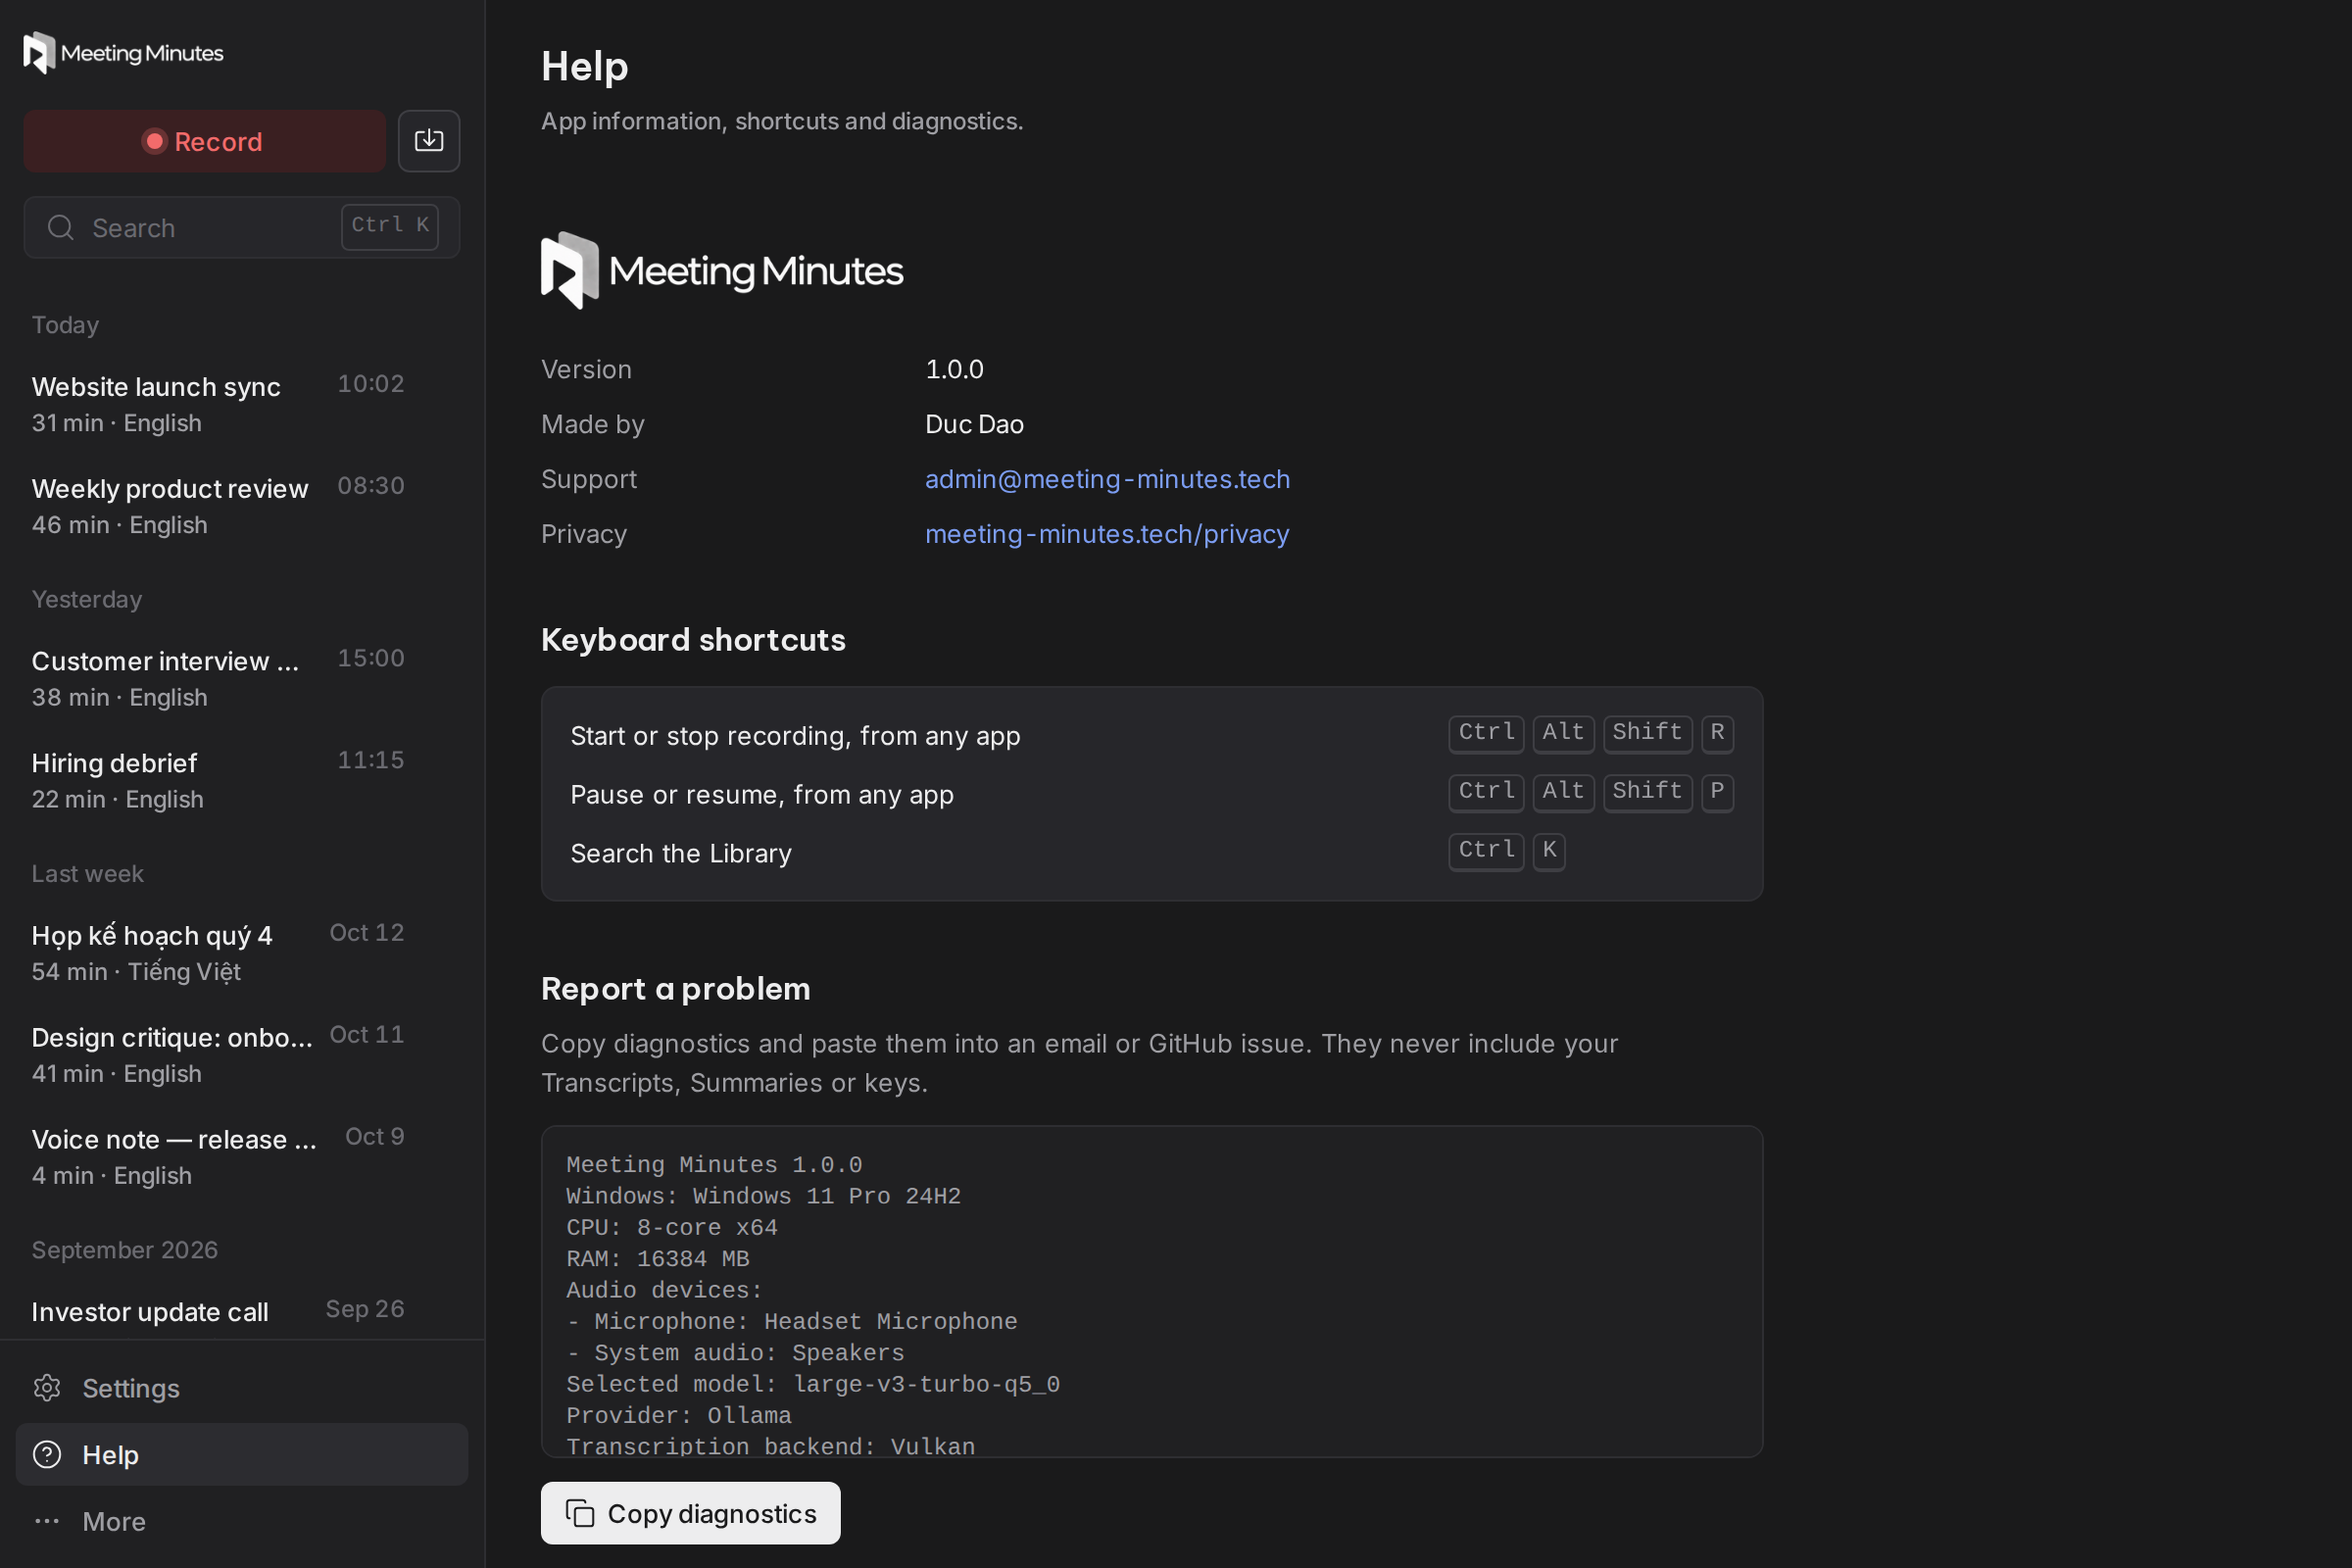
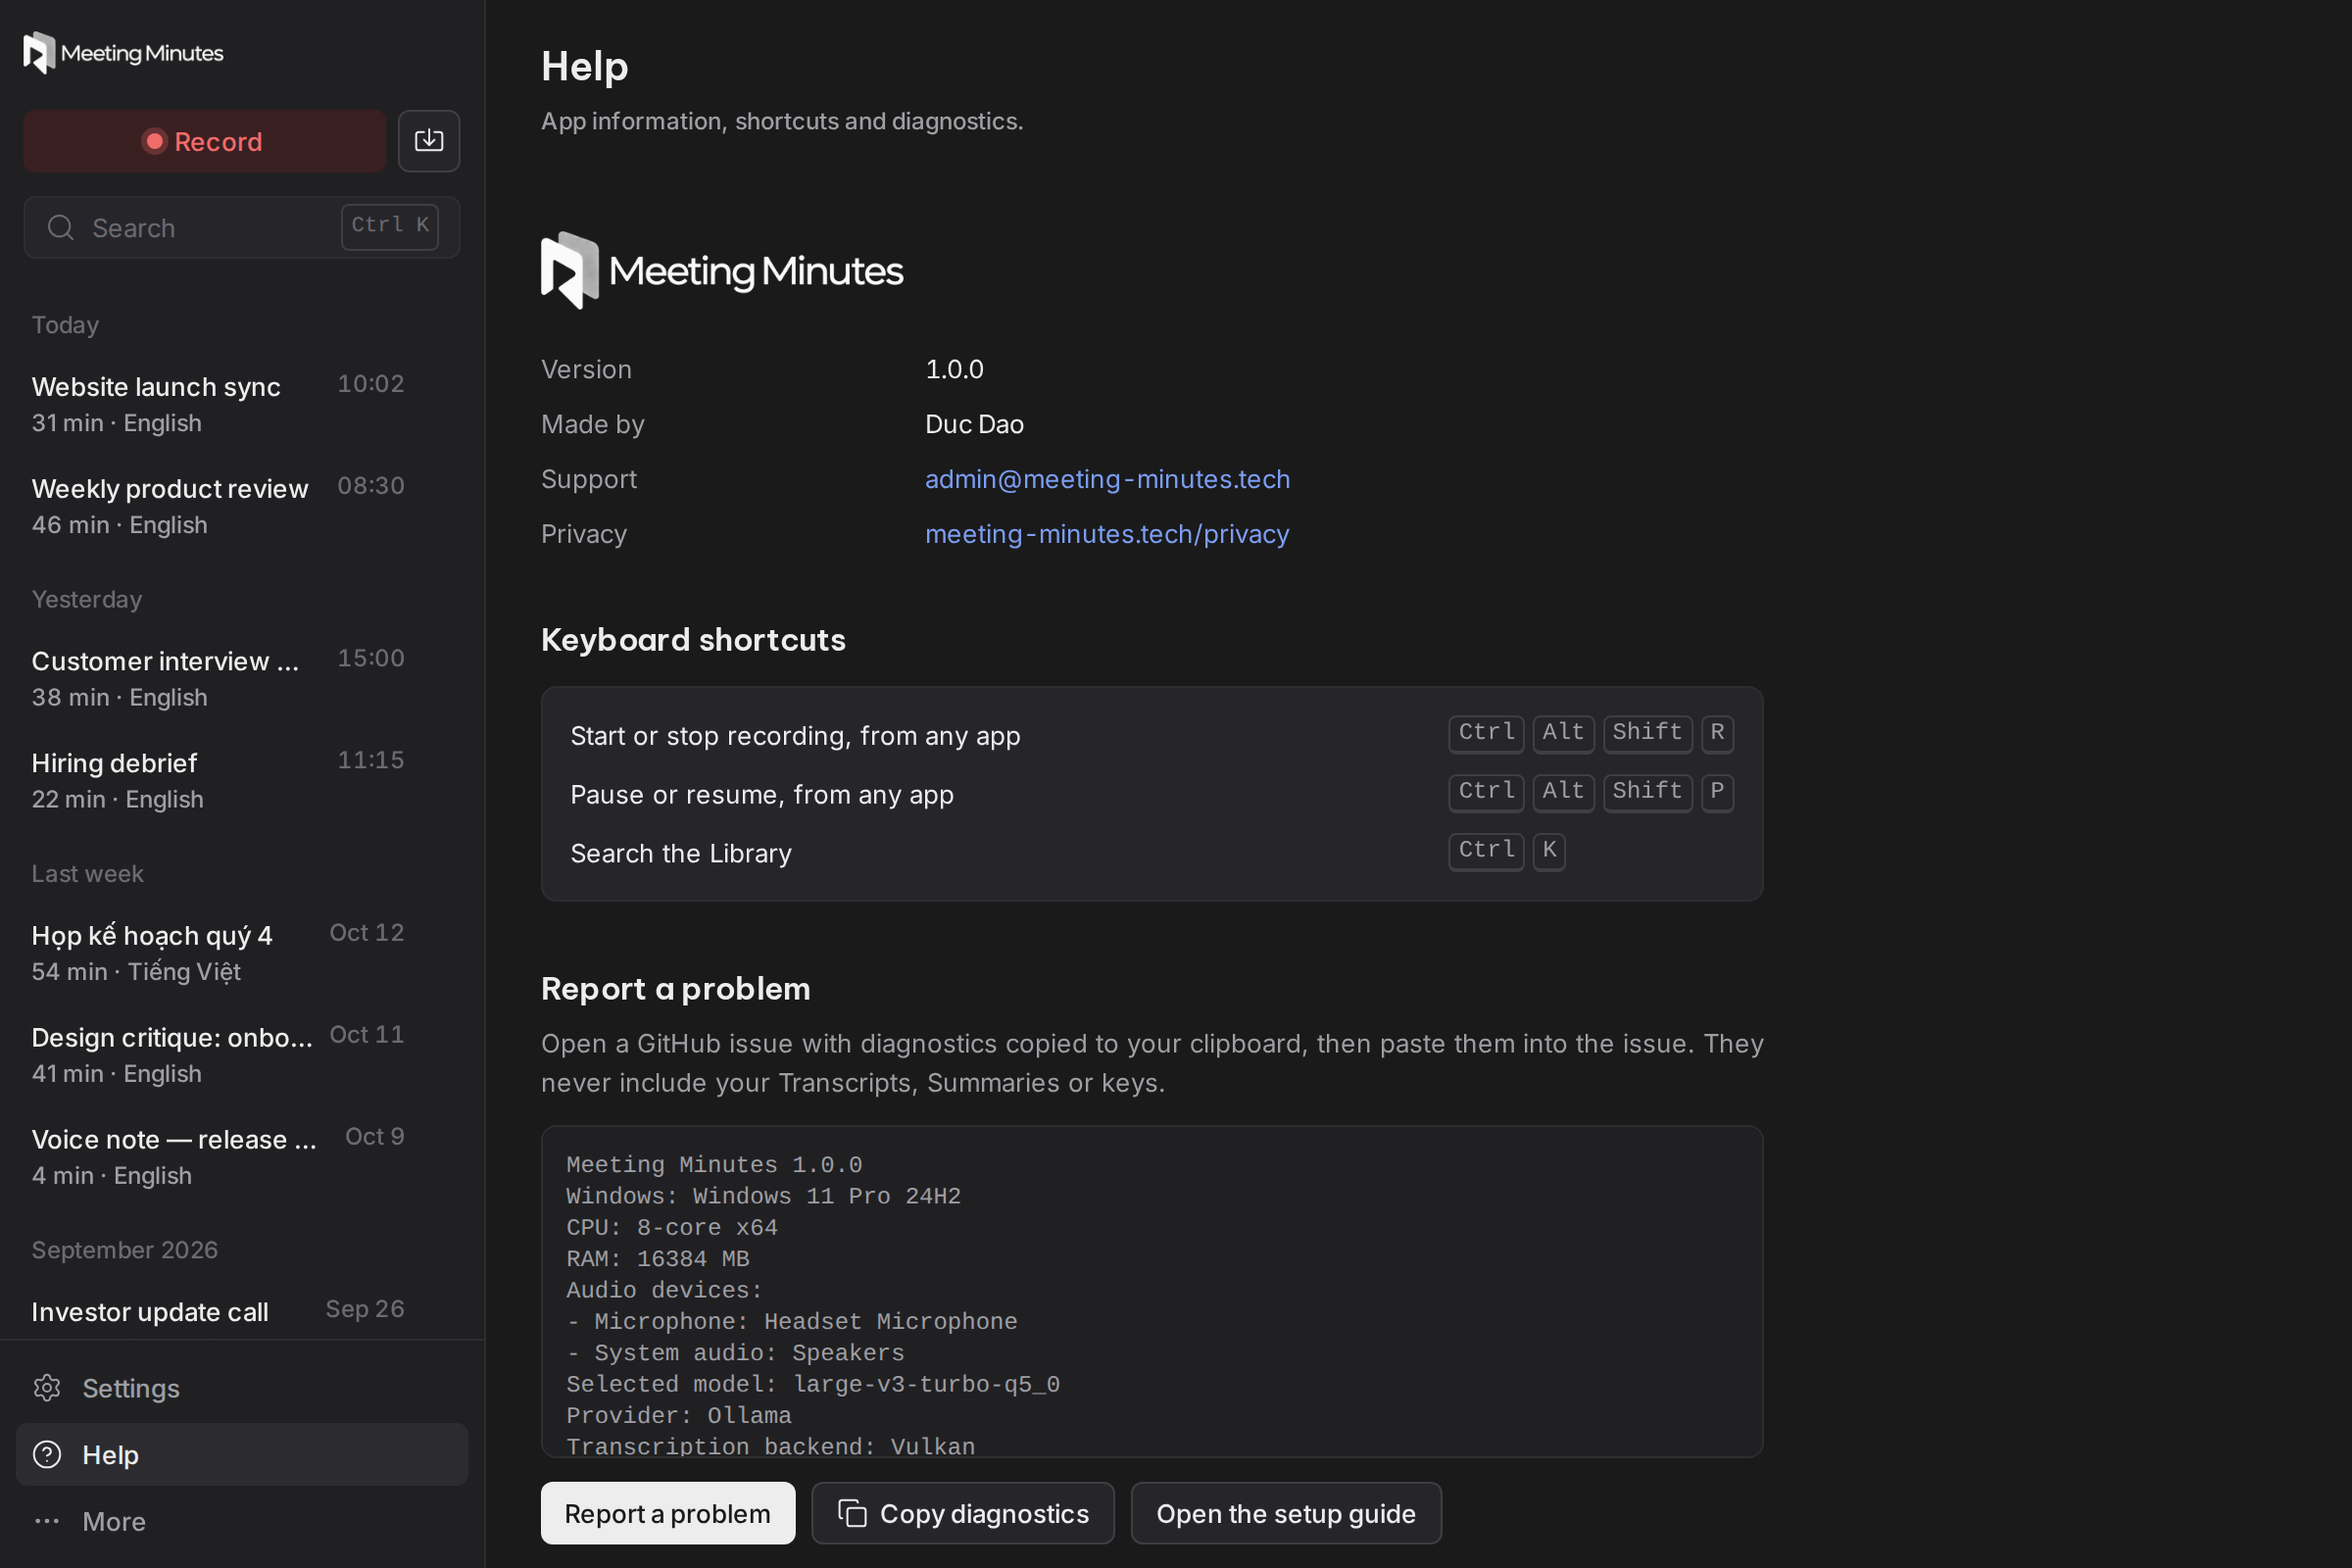
Capture the first-run model screenshot and Product Hunt gallery images
pnpm screenshots adds firstrun-model-*.png and regenerates the Help view without Beta. pnpm screenshots --gallery writes 1270 x 760 images to .scratch/v1-launch/gallery/. Ticket v1-launch/15.

Changed region(s): [[0.2188, 0.6562, 0.75, 0.7188], [0.25, 0.9375, 0.5938, 1.0]]

diff --git a/scripts/screenshots/demo.ts b/scripts/screenshots/demo.ts
@@ -56,7 +56,10 @@ mockIPC((cmd, args) => {
     case "list_participant_names": return ["Alex", "Priya", "Sam"];
     case "list_ai_models": return ["qwen3:8b"];
     case "search_library": return demo.search(a.query as string);
-    case "app_info": return { version: "1.0.0", channel: "" };
+    case "app_info": return { version: "1.0.0" };
+    case "first_run_info": return { discrete_gpu: true, library_location: "C:\\Users\\Alex\\Documents\\Meeting Minutes" };
+    case "model_download_status": return [];
+    case "acknowledge_recording_notice": return idle;
     case "get_diagnostics": return demo.diagnostics;
     case "plugin:event|listen": return 0;
     case "plugin:event|unlisten": return null;

diff --git a/website/src/assets/screens/README.md b/website/src/assets/screens/README.md
@@ -10,6 +10,8 @@ Demo content is fictional: never real people, calls or device details, and only 
 - `search-*.png`: Library search for “pricing” with matches across several Meetings.
 - `diagnostics-*.png`: the Help view with Copy diagnostics and a fictional diagnostics preview.
 - `library-*.png`: the Library home table. It isn't on the website; it's for launch galleries.
-- `firstrun-model-*.png`: the first-run model recommendation. Not captured yet: the first-run setup step doesn't exist. The draft build shows a placeholder until it does.
+- `firstrun-model-*.png`: the first-run model recommendation, opened from Help's setup guide on a PC with a GPU.
+
+`pnpm screenshots --gallery` captures the same views at 1270 × 760 for the Product Hunt gallery into `.scratch/v1-launch/gallery/`, outside the website assets.
 
 The non-draft build fails until every website screenshot exists, once a Release is published.

diff --git a/.scratch/v1-launch/issues/03-first-run-setup.md b/.scratch/v1-launch/issues/03-first-run-setup.md
@@ -11,8 +11,3 @@ Status: ready-for-agent
 - [x] Download now starts the download from ticket 02 and shows its progress
 - [x] Help can reopen the flow
 - [x] Tests cover skip, download and use-my-key paths
-- [x] Model step saves the default Meeting language and updates the recommendation
-- [x] Library step opens the resolved folder; General shows that same path
-- [x] `first_run_completed` is required in TypeScript Settings
-- [x] Setup and Settings share model-download event reconciliation
-- [x] First-run Library location comes from the initialised Library state

diff --git a/.scratch/v1-launch/issues/07-remove-beta-from-app.md b/.scratch/v1-launch/issues/07-remove-beta-from-app.md
@@ -8,4 +8,4 @@ Status: ready-for-agent
 
 - [x] No user-visible "Beta" in the app, README or design docs
 - [x] The diagnostics test expects "Meeting Minutes 0.x.y" without Beta
-- [ ] Screenshots are regenerated without the workaround
+- [x] Screenshots are regenerated without the workaround

diff --git a/.scratch/v1-launch/issues/15-firstrun-and-gallery-screenshots.md b/.scratch/v1-launch/issues/15-firstrun-and-gallery-screenshots.md
@@ -6,5 +6,5 @@
 
 Status: ready-for-agent
 
-- [ ] All twelve website screenshots exist
-- [ ] Gallery images are produced at 1270 × 760
+- [x] All twelve website screenshots exist
+- [x] Gallery images are produced at 1270 × 760
